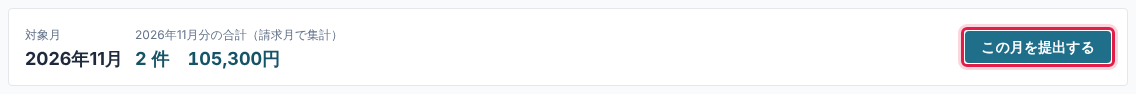
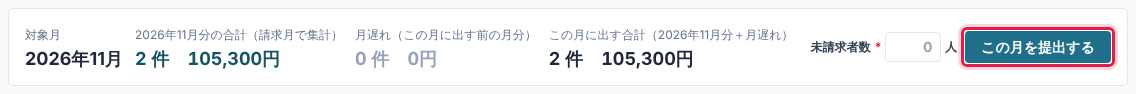
自賠請求：提出（請求者なしを含む）のときに未請求者数を入れる（必須・0 可）。提出済みの横と、本部・MG の自賠集計に店舗ごとの人数と合計。手順のフロー 10 の画面写真を撮り直し
Claude-Session: https://claude.ai/code/session_016VcLtARMBSKX4LLntfocHn

diff --git a/xserver/frontend/src/pages/admin/JibaiPage.tsx b/xserver/frontend/src/pages/admin/JibaiPage.tsx
@@ -44,6 +44,8 @@ export default function JibaiPage() {
   const { data, error, reload } = useFetch<Resp>(`/api/admin/jibai?ym=${encodeURIComponent(ymParam)}`);
   const [rows, setRows] = useState<Row[]>([]);
   const [msg, setMsg] = useState<{ text: string; kind: 'ok' | 'err' } | null>(null);
+  // 未請求者数（自賠の患者様のうち、請求ができていない人の人数）。提出・請求者なしのときに必ず入れる（0 人も）
+  const [unclaimed, setUnclaimed] = useState('');
   const [progress, setProgress] = useState<string | null>(null);
   const [queueLeft, setQueueLeft] = useState(0);
   // 読み取りの進み具合：今の 1 枚の％と、まとめて入れた枚数のうち何枚目か（残り時間の目安は、読み終えた 1 枚あたりの時間から出す）
@@ -175,13 +177,16 @@ export default function JibaiPage() {
   async function submitMonth(action: 'submit' | 'submit_empty' | 'reopen') {
     if (!data) return;
     if (rows.some((r) => r.dirty || !r.id)) { setMsg({ text: '先に「変更を保存」を押してください', kind: 'err' }); return; }
+    const un = unclaimed.normalize('NFKC').trim();
+    if (action !== 'reopen' && !/^\d{1,3}$/.test(un)) { setMsg({ text: '未請求者数（請求ができていない自賠の患者様の人数）を入れてください。いない場合は 0 です', kind: 'err' }); return; }
     if (action === 'submit' && ymMissing > 0) { setMsg({ text: `請求月が未選択の明細が ${ymMissing} 件あります。何年何月分かを選んで保存してから提出してください`, kind: 'err' }); return; }
     const others = breakdown.filter((b) => b.ym !== ym);
-    const label = action === 'reopen' ? '提出を取り消して修正できるようにします。' : action === 'submit_empty' ? `${formatYm(data.ym)} は請求する患者様がいない（請求者なし・0 件）として提出します。`
-      : `${formatYm(data.ym)} の画面の明細 ${rows.length} 件・${yen(total)} を提出します。${others.length ? `\nうち ${others.map((b) => `${formatYm(b.ym)}分 ${b.count}件 ${yen(b.total)}`).join('、')} は、それぞれの請求月の合計に入ります。` : ''}\n提出後は本部の集計に反映されます。`;
+    const label = action === 'reopen' ? '提出を取り消して修正できるようにします。' : action === 'submit_empty' ? `${formatYm(data.ym)} は請求する患者様がいない（請求者なし・0 件）として提出します（未請求 ${Number(un)} 人）。`
+      : `${formatYm(data.ym)} の画面の明細 ${rows.length} 件・${yen(total)}（未請求 ${Number(un)} 人）を提出します。${others.length ? `\nうち ${others.map((b) => `${formatYm(b.ym)}分 ${b.count}件 ${yen(b.total)}`).join('、')} は、それぞれの請求月の合計に入ります。` : ''}\n提出後は本部の集計に反映されます。`;
     if (!confirm(`${label}よろしいですか？`)) return;
     try {
-      await send('/api/admin/jibai/submit', 'POST', { ym: data.ym, action });
+      await send('/api/admin/jibai/submit', 'POST', { ym: data.ym, action, ...(action === 'reopen' ? {} : { unclaimed: Number(un) }) });
+      if (action !== 'reopen') setUnclaimed('');
       setMsg({ text: action === 'reopen' ? '提出を取り消しました。修正後にもう一度提出してください' : '提出しました', kind: 'ok' });
       reload();
     } catch (e: unknown) {
@@ -266,17 +271,24 @@ export default function JibaiPage() {
           {submitted ? (
             <>
               <span className="rounded bg-green-100 px-2 py-1 text-xs text-green-800">提出済み{rows.length === 0 ? '（請求者なし）' : ''} {formatDateTime(data.month?.submittedAt)}（{data.month?.submittedBy}）</span>
+              {data.month?.unclaimed != null && <span className="rounded bg-amber-100 px-2 py-1 text-xs font-bold text-amber-900" aria-label="提出した未請求者数">未請求 {data.month.unclaimed} 人</span>}
               <button type="button" onClick={() => submitMonth('reopen')} className="rounded border bg-white px-3 py-1 text-sm">提出を取り消す</button>
               <MoveMonth ym={ym} suggest={rows.length && rows.every((r) => r.invoiceYm && r.invoiceYm < ym) ? rows[0].invoiceYm : ''} onMove={moveMonth} />
             </>
-          ) : rows.length === 0 && unsaved === 0 ? (
+          ) : (<>
+            <label className="flex items-center gap-1 text-xs font-bold text-slate-700" title="自賠の患者様のうち、請求ができていない人の人数（いなければ 0）">
+              未請求者数<span className="text-red-600">*</span>
+              <input value={unclaimed} onChange={(e) => setUnclaimed(e.target.value)} inputMode="numeric" maxLength={3} placeholder="0" aria-label="未請求者数" className="w-14 rounded border px-2 py-1 text-right text-sm" />人
+            </label>
+            {rows.length === 0 && unsaved === 0 ? (
             <span className="flex flex-wrap items-center gap-2" role="group" aria-label="請求者なしで提出">
               <span className="text-xs text-slate-600">この月に請求する患者様がいないときは →</span>
               <button type="button" onClick={() => void submitMonth('submit_empty')} className="rounded bg-slate-700 px-4 py-1.5 text-sm font-bold text-white">請求者なし（0 件で提出）</button>
             </span>
           ) : (
             <button type="button" onClick={() => submitMonth('submit')} disabled={unsaved > 0 || ymMissing > 0} className="rounded bg-brand px-4 py-1.5 text-sm font-bold text-white disabled:opacity-50" title={ymMissing > 0 ? '請求月が未選択の明細があります' : unsaved > 0 ? '先に「変更を保存」を押してください' : ''}>この月を提出する</button>
-          )}
+            )}
+          </>)}
         </div>
       </div>
 

diff --git a/xserver/frontend/src/pages/admin/JibaiHqPage.tsx b/xserver/frontend/src/pages/admin/JibaiHqPage.tsx
@@ -5,9 +5,9 @@ import { useFetch } from '@/lib/api';
 import { addMonths, formatDateTime, formatYm, yen } from '@/lib/jibai';
 import { useAdmin } from './Layout';
 
-interface Row { code: string; name: string; status: 'NONE' | 'DRAFT' | 'SUBMITTED'; submittedAt: string | null; submittedBy: string | null; count: number; total: number; ocrCount: number; lateCount: number; lateTotal: number; movedOut: number; verifiedCount: number; verifiedTotal: number; sentCount: number; sentTotal: number; sentLateCount: number; sentLateTotal: number }
+interface Row { code: string; name: string; status: 'NONE' | 'DRAFT' | 'SUBMITTED'; submittedAt: string | null; submittedBy: string | null; count: number; total: number; ocrCount: number; lateCount: number; lateTotal: number; movedOut: number; verifiedCount: number; verifiedTotal: number; sentCount: number; sentTotal: number; sentLateCount: number; sentLateTotal: number; unclaimed?: number | null }
 interface Resp {
-  ym: string; currentYm: string; rows: Row[]; sum: { count: number; total: number; verifiedCount: number; verifiedTotal: number; sentCount: number; sentTotal: number; sentLateCount: number; sentLateTotal: number; submitted: number }; storeCount: number;
+  ym: string; currentYm: string; rows: Row[]; sum: { count: number; total: number; verifiedCount: number; verifiedTotal: number; sentCount: number; sentTotal: number; sentLateCount: number; sentLateTotal: number; submitted: number; unclaimed?: number }; storeCount: number;
   trend: { ym: string; count: number; total: number; verifiedTotal: number }[]; setting: { nameRetentionDays: number };
 }
 
@@ -71,6 +71,7 @@ export default function JibaiHqPage() {
         <div><span className="text-xs text-slate-500">提出済み店舗</span><div className="text-xl font-bold tabular-nums">{sum.submitted} / {data.storeCount}</div></div>
         <div><span className="text-xs text-slate-500">経理確認済み</span><div className="text-xl font-bold tabular-nums">{sum.verifiedCount} 件 / {yen(sum.verifiedTotal)}</div></div>
         <div aria-label="全店の月遅れ"><span className="text-xs text-slate-500">月遅れ（この月に出した前の月分）</span><div className={`text-xl font-bold tabular-nums ${sum.sentLateCount ? 'text-amber-800' : 'text-slate-400'}`}>{sum.sentLateCount} 件 / {yen(sum.sentLateTotal)}</div></div>
+        <div aria-label="全店の未請求者数"><span className="text-xs text-slate-500">未請求者数（提出した店舗）</span><div className={`text-xl font-bold tabular-nums ${sum.unclaimed ? 'text-amber-800' : 'text-slate-400'}`}>{sum.unclaimed ?? 0} 人</div></div>
         <div aria-label="全店のこの月に出した合計"><span className="text-xs text-slate-500">この月に出した合計（この月分＋月遅れ）</span><div className="text-xl font-bold tabular-nums">{sum.sentCount} 件 / {yen(sum.sentTotal)}</div></div>
       </div>
 
@@ -94,6 +95,7 @@ export default function JibaiHqPage() {
               <th className={num}>差額</th>
               <th className={`${num} bg-amber-50`} title="この月に出した明細のうち、請求月が前の月の分（月遅れ請求）">月遅れ（この月に出した）</th>
               <th className={`${num} bg-amber-50`} title="この月に出した明細の合計（この月分＋月遅れ）">この月に出した合計</th>
+              <th className={num} title="提出のときに店舗が入れた、請求ができていない自賠の患者様の人数">未請求者数</th>
               <th></th>
             </tr>
           </thead>
@@ -109,6 +111,7 @@ export default function JibaiHqPage() {
                 <td className={`${num} ${r.verifiedCount > 0 && r.verifiedCount === r.count && r.verifiedTotal !== r.total ? 'text-amber-700' : 'text-slate-500'}`}>{r.verifiedCount > 0 && r.verifiedCount === r.count ? (r.verifiedTotal - r.total).toLocaleString('ja-JP') : ''}</td>
                 <td className={`${num} bg-amber-50/60 ${r.sentLateCount > 0 ? 'font-bold text-amber-900' : ''}`}>{r.sentLateCount > 0 ? `${r.sentLateCount}件 ${r.sentLateTotal.toLocaleString('ja-JP')}` : ''}</td>
                 <td className={`${num} bg-amber-50/60`}>{r.sentCount > 0 ? `${r.sentCount}件 ${r.sentTotal.toLocaleString('ja-JP')}` : ''}</td>
+                <td className={`${num} ${r.unclaimed ? 'font-bold text-amber-900' : ''}`} aria-label={`${r.name} の未請求者数`}>{r.unclaimed != null ? `${r.unclaimed} 人` : ''}</td>
                 <td className="whitespace-nowrap px-2 py-1">
                   {canSwitch && r.status !== 'SUBMITTED' && r.sentCount === 0 && <button type="button" onClick={() => void submitEmpty([r])} className="mr-2 rounded border border-slate-400 bg-white px-1.5 text-xs" aria-label={`${r.name} を請求者なしにする`}>請求者なし</button>}
                   {canSwitch && <form action="/api/admin/switch" method="post" className="inline">
@@ -131,6 +134,7 @@ export default function JibaiHqPage() {
                 <td className={num}></td>
                 <td className={`${num} bg-amber-50`}>{sum.sentLateCount > 0 ? `${sum.sentLateCount}件 ${sum.sentLateTotal.toLocaleString('ja-JP')}` : ''}</td>
                 <td className={`${num} bg-amber-50`}>{sum.sentCount} 件 {sum.sentTotal.toLocaleString('ja-JP')}</td>
+                <td className={num} aria-label="未請求者数の合計">{sum.unclaimed ?? 0} 人</td>
                 <td></td>
               </tr>
             </tfoot>

diff --git a/xserver/frontend/src/lib/guide.ts b/xserver/frontend/src/lib/guide.ts
@@ -264,7 +264,7 @@ export const GUIDE: GuideArticle[] = [
       { text: '撮ったスクショを、自賠請求の画面で **Ctrl＋V**（貼り付け）します。「**スクショを選ぶ**」で選ぶ・ドラッグ＆ドロップでも入れられます（何枚でも）。進み具合が ％ で出ます。', img: 'jibai-1.png' },
       { text: '読み取った **患者番号・氏名・請求月・実日数・金額** を見比べて、違っていれば直し、「**変更を保存**」を押します。', img: 'jibai-flow-8.png' },
       { text: '**請求月**は、**月遅れ請求の場合は本来請求するべき月**を選びます（実際に出す月ではありません。例：9 月分を 10 月に出すときは 9 月）。画面の上に「**月遅れ（この月に出す前の月分）**」と「**この月に出す合計**」が出ます。' },
-      { text: '全部入れたら「**この月を提出する**」。請求する患者様がいない月は「**請求者なし（0 件で提出）**」を押します（本部・管轄MG の自賠集計からも「請求者なし」にできます）。まだ提出していないと、その月の**最終営業日の営業終了の時刻から**、ログインしたあと 1 日 1 回「**自賠請求の提出のお知らせ**」が出て、メニューの「自賠請求」に「!」が付きます（締め切りの 5 日を過ぎると赤）。直したいときは「提出を取り消す」。**前の月分を今月の画面で提出してしまった**ときは、提出済みの画面の「**提出月を変える**」で、本来の月の提出に移せます（明細も一緒に移り、本部の自賠集計でその月が「提出済み」になります）。**締め切りは毎月 5 日まで**です（基本は月末の作業のときに提出）。', img: 'jibai-flow-10.png' },
+      { text: '提出の前に、**未請求者数**（自賠の患者様のうち、請求ができていない人の人数。いなければ **0**）を入れます（請求者なしのときも入れます。入れないと提出できません）。全部入れたら「**この月を提出する**」。請求する患者様がいない月は「**請求者なし（0 件で提出）**」を押します（本部・管轄MG の自賠集計からも「請求者なし」にできます）。まだ提出していないと、その月の**最終営業日の営業終了の時刻から**、ログインしたあと 1 日 1 回「**自賠請求の提出のお知らせ**」が出て、メニューの「自賠請求」に「!」が付きます（締め切りの 5 日を過ぎると赤）。直したいときは「提出を取り消す」。**前の月分を今月の画面で提出してしまった**ときは、提出済みの画面の「**提出月を変える**」で、本来の月の提出に移せます（明細も一緒に移り、本部の自賠集計でその月が「提出済み」になります）。**締め切りは毎月 5 日まで**です（基本は月末の作業のときに提出）。', img: 'jibai-flow-10.png' },
     ],
     tips: ['画像はこのパソコンの中だけで読み取り、どこにも送られません。', '本部が確認した行は、店舗では金額を直せなくなります（本部に連絡してください）。'],
     words: '自賠責 交通事故 請求書 スクショ',

diff --git a/xserver/frontend/src/changelog.ts b/xserver/frontend/src/changelog.ts
@@ -5,6 +5,10 @@ export interface ChangeEntry { id: number; date: string; title: string; audience
 
 export const CHANGELOG: ChangeEntry[] = [
   {
+    id: 124, date: '2026-11-13', title: '自賠請求：提出のときに未請求者数', audience: ['店舗', '本部'],
+    items: ['自賠請求を提出するとき（「この月を提出する」「請求者なし（0 件で提出）」）に、未請求者数（自賠の患者様のうち、請求ができていない人の人数）を入れるようにしました。いない場合は 0 を入れます（空のままでは提出できません）。提出済みの横に「未請求 〇 人」と出ます。本部・管轄MG の自賠集計（全店）に、店舗ごとの未請求者数と合計を出しました。'],
+  },
+  {
     id: 123, date: '2026-11-11', title: 'WEB 予約でご家族（お連れ様）も一緒に', audience: ['店舗', '本部'],
     items: [
       '患者様の WEB 予約で、ご家族など 4 名まで一緒に予約できるようにしました。最初に人数を選び、お連れ様（2人目以降）の来院区分（はじめて・交通事故・通院中・1ヶ月以上ぶり）を選びます。日時は「みんな同じ日時」（人数分ご一緒に取れる時間だけ 〇・△）か「1人ずつ選ぶ」から選べます。お連れ様はお名前（通院中の方は診察券番号も）だけ入れ、電話番号は 1人目と同じです。',

diff --git a/xserver/frontend/src/components/JibaiFlow.tsx b/xserver/frontend/src/components/JibaiFlow.tsx
@@ -19,7 +19,7 @@ const SYSTEM: Step[] = [
   { n: 7, title: 'この画面に貼り付け', text: <>この画面で <Key k="Ctrl" />＋<Key k="V" />（「スクショを選ぶ」・ドラッグでも可）。<b>1 人ずつ 6 → 7 をくり返す</b></> },
   { n: 8, title: '読み取った内容を見比べる', text: <><b>患者番号・氏名・請求月・実日数・金額</b>を見比べて、違っていれば直す。<b>月遅れ請求は本来請求するべき月</b>を選ぶ</> },
   { n: 9, title: '「変更を保存」', text: <>表の下の「<b>変更を保存</b>」を押す</> },
-  { n: 10, title: '「この月を提出する」', text: <>全員入れたら「<b>この月を提出する</b>」（請求する患者様がいない月は「<b>請求者なし（0 件で提出）</b>」）。締め切り：<b>{JIBAI_DEADLINE}</b></> },
+  { n: 10, title: '「この月を提出する」', text: <><b>未請求者数</b>（請求ができていない自賠の患者様の人数。いなければ 0）を入れて、全員入れたら「<b>この月を提出する</b>」（請求する患者様がいない月は「<b>請求者なし（0 件で提出）</b>」）。締め切り：<b>{JIBAI_DEADLINE}</b></> },
 ];
 
 function StepCard({ s, sys }: { s: Step; sys?: boolean }) {

diff --git a/xserver/frontend/src/lib/jibai.ts b/xserver/frontend/src/lib/jibai.ts
@@ -4,7 +4,7 @@ export interface JibaiClaim {
   id: string; ym: string; invoiceYm: string | null; patientNo: string; patientName: string | null; days: number | null; amount: number; source: 'OCR' | 'MANUAL';
   verifiedAmount: number | null; verifiedAt: string | null; verifiedBy: string | null; note: string; createdBy: string; createdAt: string; updatedAt: string;
 }
-export interface JibaiMonth { status: 'DRAFT' | 'SUBMITTED'; submittedAt: string | null; submittedBy: string | null }
+export interface JibaiMonth { status: 'DRAFT' | 'SUBMITTED'; submittedAt: string | null; submittedBy: string | null; /** 提出のときに入れた未請求者数 */ unclaimed?: number | null }
 export interface JibaiLog { id: string; claimId: string | null; action: string; detail: string | null; byCode: string; createdAt: string }
 
 export function yen(n: number | null | undefined): string {

diff --git a/xserver/app/handlers/jibai.php b/xserver/app/handlers/jibai.php
@@ -117,21 +117,28 @@ function jibai_submit(): never
     $action = (string)($b['action'] ?? 'submit');
     $sid = $ctx['store']['id'];
     $by = $ctx['session']['code'];
+    // 未請求者数（提出・請求者なしのときに必ず入れる。0 人も入れる）
+    $unclaimed = null;
+    if ($action === 'submit' || $action === 'submit_empty') {
+        $u = $b['unclaimed'] ?? null;
+        if ($u === null || $u === '' || !is_numeric($u) || (int)$u != $u || (int)$u < 0 || (int)$u > 999) Http::error('未請求者数（請求ができていない自賠の患者様の人数）を入れてください。いない場合は 0 です', 400);
+        $unclaimed = (int)$u;
+    }
     if ($action === 'submit') {
         $n = (int)Db::one('SELECT COUNT(*) AS n FROM jibai_claim WHERE storeId = ? AND ym = ?', [$sid, $ym])['n'];
         if ($n === 0) Http::error('明細が 1 件もありません。自賠請求が無い月は「0 件で提出」を押してください', 400);
         $missing = (int)Db::one('SELECT COUNT(*) AS n FROM jibai_claim WHERE storeId = ? AND ym = ? AND invoiceYm IS NULL', [$sid, $ym])['n'];
         if ($missing > 0) Http::error("請求月が未選択の明細が {$missing} 件あります。何年何月分かを選んで保存してから提出してください", 400);
-        Db::exec('INSERT INTO jibai_month (id, storeId, ym, status, submittedAt, submittedBy) VALUES (?, ?, ?, ?, ?, ?) ON DUPLICATE KEY UPDATE status = VALUES(status), submittedAt = VALUES(submittedAt), submittedBy = VALUES(submittedBy)',
-            [Db::newId(), $sid, $ym, 'SUBMITTED', Time::nowJstDateTime(), $by]);
+        Db::exec('INSERT INTO jibai_month (id, storeId, ym, status, submittedAt, submittedBy, unclaimed) VALUES (?, ?, ?, ?, ?, ?, ?) ON DUPLICATE KEY UPDATE status = VALUES(status), submittedAt = VALUES(submittedAt), submittedBy = VALUES(submittedBy), unclaimed = VALUES(unclaimed)',
+            [Db::newId(), $sid, $ym, 'SUBMITTED', Time::nowJstDateTime(), $by, $unclaimed]);
         $total = (int)Db::one('SELECT COALESCE(SUM(amount), 0) AS t FROM jibai_claim WHERE storeId = ? AND ym = ?', [$sid, $ym])['t'];
-        Jibai::log($sid, $ym, null, 'submit', sprintf('%d 件 %s円', $n, number_format($total)), $by);
+        Jibai::log($sid, $ym, null, 'submit', sprintf('%d 件 %s円・未請求 %d 人', $n, number_format($total), $unclaimed), $by);
     } elseif ($action === 'submit_empty') {
         $n = (int)Db::one('SELECT COUNT(*) AS n FROM jibai_claim WHERE storeId = ? AND ym = ?', [$sid, $ym])['n'];
         if ($n > 0) Http::error('明細があるので通常の「提出」を押してください', 400);
-        Db::exec('INSERT INTO jibai_month (id, storeId, ym, status, submittedAt, submittedBy) VALUES (?, ?, ?, ?, ?, ?) ON DUPLICATE KEY UPDATE status = VALUES(status), submittedAt = VALUES(submittedAt), submittedBy = VALUES(submittedBy)',
-            [Db::newId(), $sid, $ym, 'SUBMITTED', Time::nowJstDateTime(), $by]);
-        Jibai::log($sid, $ym, null, 'submit', '0 件（自賠請求なし）', $by);
+        Db::exec('INSERT INTO jibai_month (id, storeId, ym, status, submittedAt, submittedBy, unclaimed) VALUES (?, ?, ?, ?, ?, ?, ?) ON DUPLICATE KEY UPDATE status = VALUES(status), submittedAt = VALUES(submittedAt), submittedBy = VALUES(submittedBy), unclaimed = VALUES(unclaimed)',
+            [Db::newId(), $sid, $ym, 'SUBMITTED', Time::nowJstDateTime(), $by, $unclaimed]);
+        Jibai::log($sid, $ym, null, 'submit', sprintf('0 件（自賠請求なし）・未請求 %d 人', $unclaimed), $by);
     } elseif ($action === 'move') {
         // 提出月を変える：提出した明細と「提出済み」を、別の月（本来の提出月）へ移す（例：10 月分を 11 月の画面で提出してしまった）
         $to = (string)($b['to'] ?? '');
@@ -148,8 +155,8 @@ function jibai_submit(): never
                 Db::exec('UPDATE jibai_claim SET ym = ?, seq = ? WHERE id = ?', [$to, ++$seq, $c['id']]);
                 $n++;
             }
-            Db::exec('INSERT INTO jibai_month (id, storeId, ym, status, submittedAt, submittedBy) VALUES (?, ?, ?, ?, ?, ?) ON DUPLICATE KEY UPDATE status = VALUES(status), submittedAt = VALUES(submittedAt), submittedBy = VALUES(submittedBy)',
-                [Db::newId(), $sid, $to, 'SUBMITTED', $m['submittedAt'], $m['submittedBy']]);
+            Db::exec('INSERT INTO jibai_month (id, storeId, ym, status, submittedAt, submittedBy, unclaimed) VALUES (?, ?, ?, ?, ?, ?, ?) ON DUPLICATE KEY UPDATE status = VALUES(status), submittedAt = VALUES(submittedAt), submittedBy = VALUES(submittedBy), unclaimed = VALUES(unclaimed)',
+                [Db::newId(), $sid, $to, 'SUBMITTED', $m['submittedAt'], $m['submittedBy'], $m['unclaimed']]);
             Db::exec('DELETE FROM jibai_month WHERE storeId = ? AND ym = ?', [$sid, $ym]);
             Jibai::log($sid, $to, null, 'submit', sprintf('%s の画面から提出月を変更（%d 件）', $ym, $n), $by);
             Jibai::log($sid, $ym, null, 'reopen', sprintf('提出月を %s に変更（%d 件を移動）', $to, $n), $by);
@@ -158,7 +165,7 @@ function jibai_submit(): never
     } elseif ($action === 'reopen') {
         $m = Jibai::month($sid, $ym);
         if (!$m || $m['status'] !== 'SUBMITTED') Http::error('提出されていません', 400);
-        Db::exec('UPDATE jibai_month SET status = ?, submittedAt = NULL, submittedBy = NULL WHERE storeId = ? AND ym = ?', ['DRAFT', $sid, $ym]);
+        Db::exec('UPDATE jibai_month SET status = ?, submittedAt = NULL, submittedBy = NULL, unclaimed = NULL WHERE storeId = ? AND ym = ?', ['DRAFT', $sid, $ym]);
         Jibai::log($sid, $ym, null, 'reopen', null, $by);
     } else {
         Http::error('bad request', 400);
@@ -224,6 +231,7 @@ function hq_jibai(): never
             'status' => $m ? (string)$m['status'] : 'NONE',
             'submittedAt' => $m ? $m['submittedAt'] : null,
             'submittedBy' => $m ? $m['submittedBy'] : null,
+            'unclaimed' => $m && $m['status'] === 'SUBMITTED' && isset($m['unclaimed']) ? (int)$m['unclaimed'] : null, // 未請求者数（本部・MG の「請求者なし」では入らない）
             'count' => $a ? (int)$a['n'] : 0,
             'total' => $a ? (int)$a['total'] : 0,
             'ocrCount' => $a ? (int)$a['ocr'] : 0,
@@ -241,6 +249,7 @@ function hq_jibai(): never
         $sum['verifiedCount'] += $row['verifiedCount'];
         $sum['verifiedTotal'] += $row['verifiedTotal'];
         if ($row['status'] === 'SUBMITTED') $sum['submitted']++;
+        $sum['unclaimed'] = ($sum['unclaimed'] ?? 0) + (int)($row['unclaimed'] ?? 0);
         $rows[] = $row;
     }
     // 過去 12 か月の全社合計（推移）

diff --git a/xserver/app/lib/Jibai.php b/xserver/app/lib/Jibai.php
@@ -29,7 +29,9 @@ final class Jibai
     /** 後から追加した列が無ければ足す（MySQL 8 は ADD COLUMN IF NOT EXISTS が使えないため自前で確認） */
     private static function ensureColumns(): void
     {
-        $added = [['jibai_claim', 'invoiceYm', 'ALTER TABLE `jibai_claim` ADD COLUMN `invoiceYm` CHAR(7) NULL AFTER `seq`']];
+        $added = [['jibai_claim', 'invoiceYm', 'ALTER TABLE `jibai_claim` ADD COLUMN `invoiceYm` CHAR(7) NULL AFTER `seq`'],
+            // 提出のときに入れる未請求者数（自賠の患者様のうち、請求ができていない人の人数）
+            ['jibai_month', 'unclaimed', 'ALTER TABLE `jibai_month` ADD COLUMN `unclaimed` INT NULL AFTER `submittedBy`']];
         foreach ($added as [$table, $col, $ddl]) {
             $r = Db::one('SELECT 1 AS x FROM information_schema.columns WHERE table_schema = DATABASE() AND table_name = ? AND column_name = ?', [$table, $col]);
             if (!$r) Db::pdo()->exec($ddl);
@@ -84,7 +86,7 @@ final class Jibai
     public static function monthRow(?array $r): ?array
     {
         if (!$r) return null;
-        return ['status' => (string)$r['status'], 'submittedAt' => $r['submittedAt'], 'submittedBy' => $r['submittedBy']];
+        return ['status' => (string)$r['status'], 'submittedAt' => $r['submittedAt'], 'submittedBy' => $r['submittedBy'], 'unclaimed' => isset($r['unclaimed']) ? (int)$r['unclaimed'] : null];
     }
 
     public static function claims(string $storeId, string $ym): array
